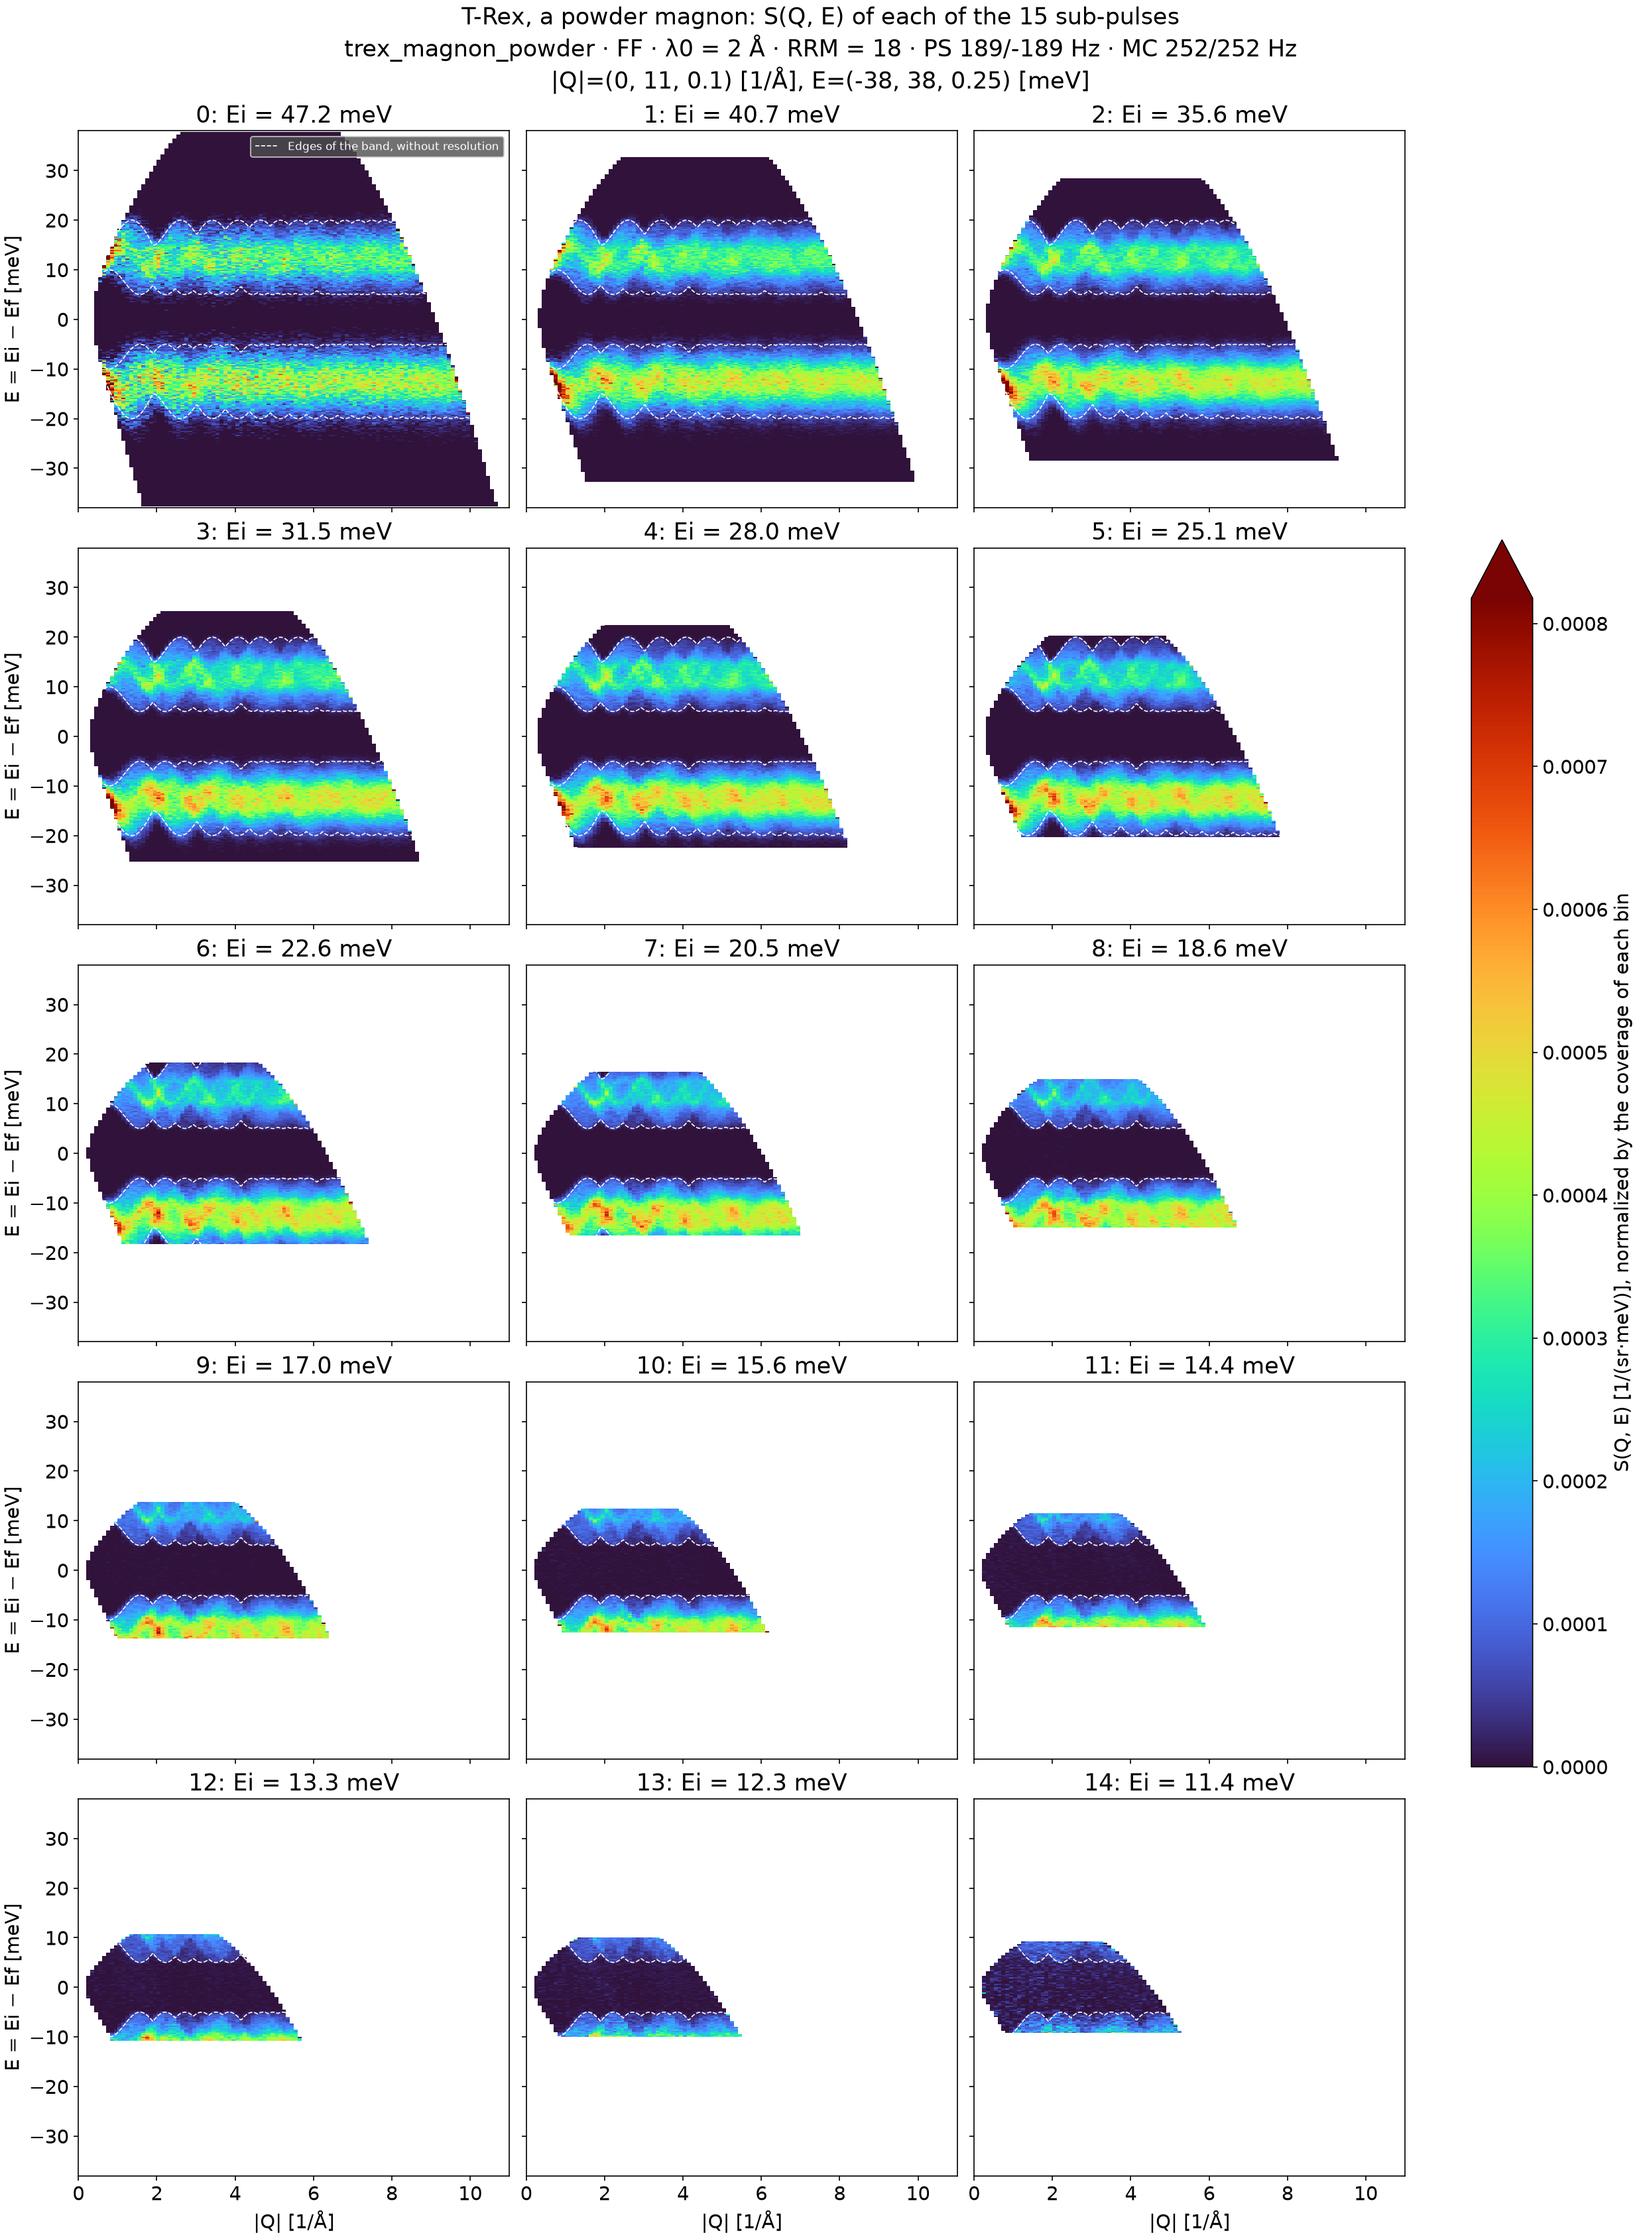
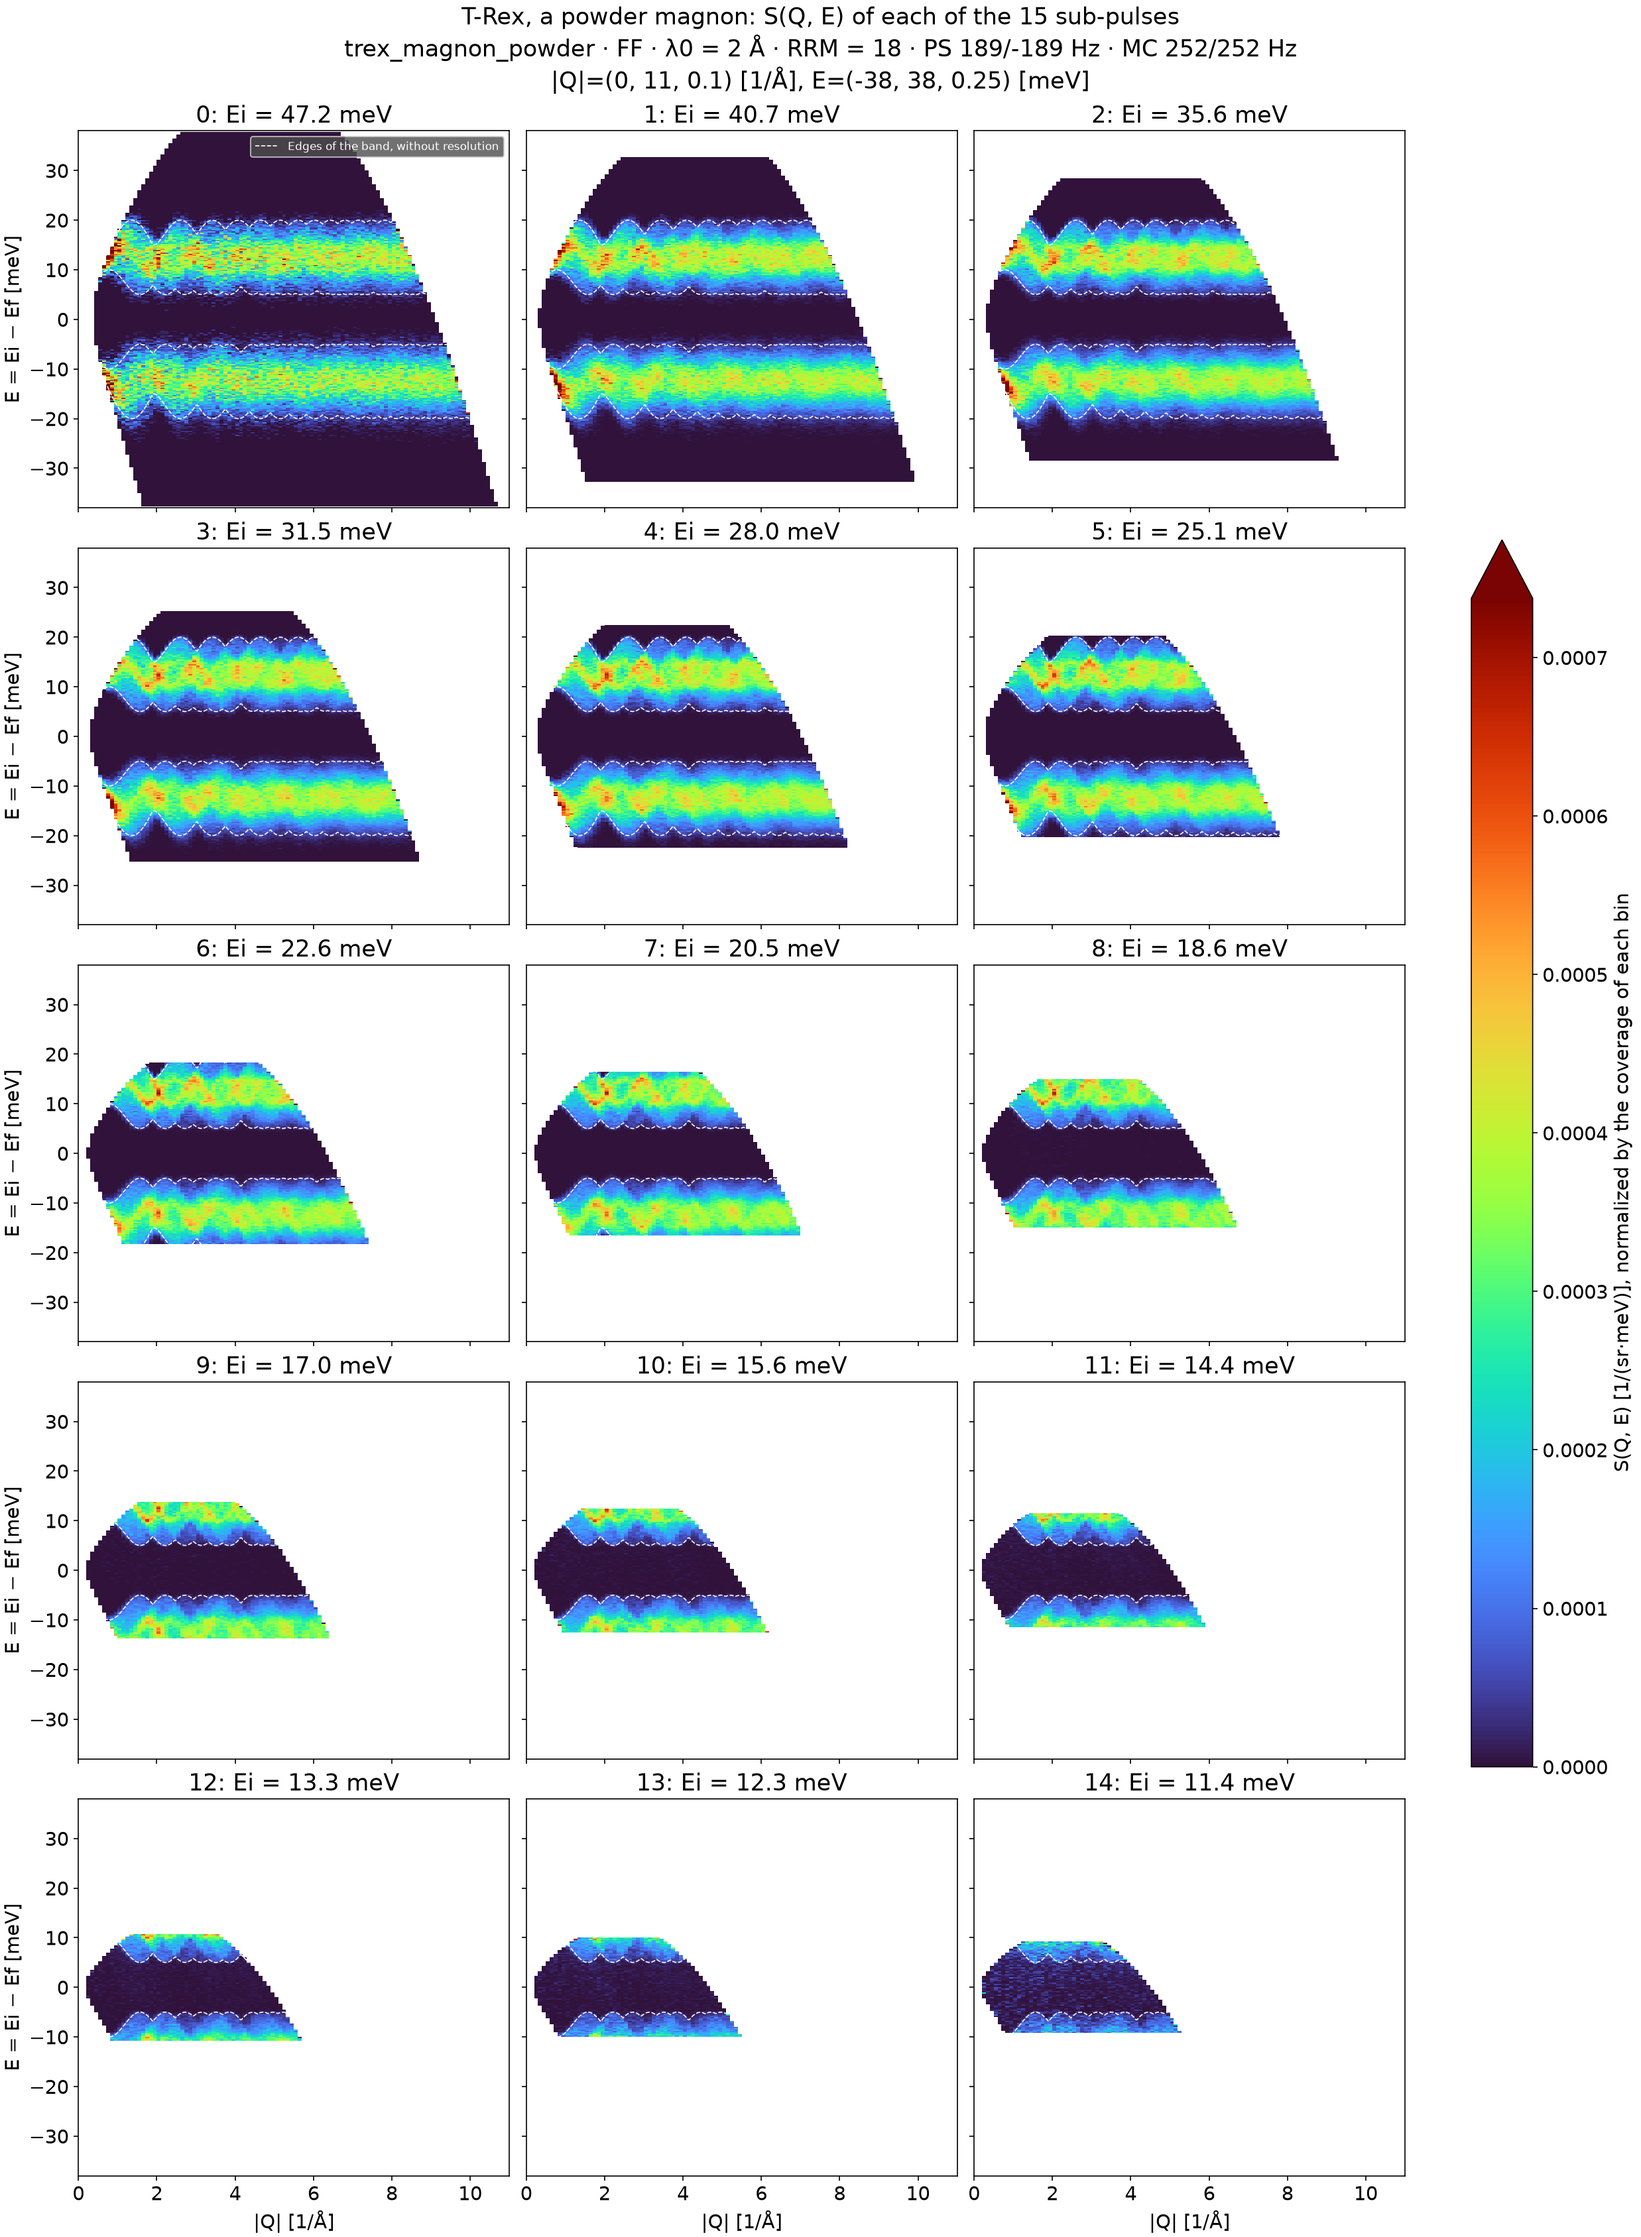
Divide the S(Q, E) maps by kf/ki, and explain it and the Bose factor in the docs
The double-differential cross section holds kf/ki on top of S(Q, E), and Isotropic_Sqw scatters
with it. kf_over_ki in reduction.inelastic gives sqrt(Ef / Ei), and q_e_maps divides each neutron
by it before it histograms them, so the maps are S(Q, E) itself, as their color bar says. For the
powder magnon, whose table is symmetric in E, the gain and the loss sides now agree within 1% to
4% wherever frame overlap leaves them alone, on both instruments; before, the gain side was up to
twice as bright at the lowest Ei. The two figures are redrawn.

The powder-magnon pages of T-Rex and CSPEC explain both: the table on both sides of E with T=-1,
a Bose factor of 1 at every energy transfer, and kf/ki taken off in the reduction.

diff --git a/src/mcdgs/diagnostics/elastic_resolution.py b/src/mcdgs/diagnostics/elastic_resolution.py
@@ -15,8 +15,9 @@ does the rest:
   final energy Ef, and gives its FWHM, ``FWHM_PER_SIGMA`` times its standard deviation σ;
   :func:`lines_table` lists them, and :func:`plot_spectra` draws the spectra with their errors and
   their Gaussians, against E.
-- :func:`q_e_maps` histograms the neutrons of each sub-pulse in |Q| and E as well, and
-  :func:`plot_q_e_maps` draws the maps of all of them in one figure.
+- :func:`q_e_maps` histograms the neutrons of each sub-pulse in |Q| and E as well, divided by
+  their kf/ki, into S(Q, E), and :func:`plot_q_e_maps` draws the maps of all of them in one
+  figure.
 
 The sub-pulses are a data array along ``subpulse``, with their flux and the coordinates
 ``incident_energy``, ``incident_wavelength`` and ``time_at_sample``, as
@@ -31,7 +32,7 @@ from scipy.optimize import curve_fit
 
 from mcdgs.diagnostics import cli
 from mcdgs.reduction.binning import bin_edges, bins_title
-from mcdgs.reduction.inelastic import DEFAULT_ENERGY_TRANSFER_RATIO
+from mcdgs.reduction.inelastic import DEFAULT_ENERGY_TRANSFER_RATIO, kf_over_ki
 from mcdgs.reduction.mdnorm import momentum_transfer, q_e_coverage
 
 # the incident beam in the frame of sample_pos, the frame of a run from the sample: its z axis
@@ -369,9 +370,11 @@ def q_e_maps(
 
     Every sub-pulse has the same bins, so that all the maps span the same range: in E those of
     :func:`energy_spectra`, wide enough for the arrival window of the highest Ei, and in |Q|
-    from 0 to the largest |Q| the detector reaches, at the largest 2θ and the highest Ei. In
-    each bin, the fraction of the incident neutrons of the sub-pulse scattered into it is
-    divided by its coverage from :func:`.q_e_coverage`: the solid angle of every pixel times
+    from 0 to the largest |Q| the detector reaches, at the largest 2θ and the highest Ei. Each
+    neutron is divided by its kf/ki, :func:`.kf_over_ki`, which the cross section holds on top of
+    S(Q, E): it is 1 at E = 0, above 1 where the neutron gains energy and below where it loses
+    it. In each bin, the fraction of the incident neutrons of the sub-pulse scattered into it is
+    then divided by its coverage from :func:`.q_e_coverage`: the solid angle of every pixel times
     the length in E of its trajectory inside the bin. That is S(Q, E) per steradian and per meV,
     whatever the part of the detector that sees the bin: the normalization of MDNorm, in |Q|.
 
@@ -410,6 +413,13 @@ def q_e_maps(
     fractions.data = events.data * events.coords["solid_angle"]  # of the incident neutrons
     fractions.coords["energy_transfer"] = events.coords["energy_transfer"].to(unit="meV")
     fractions.coords["Q"] = events.coords["Q"].to(unit="1/Å")
+    # the incident energy of each neutron, that of its sub-pulse, to take kf/ki off S(Q, E)
+    subpulse = events.coords["subpulse"].values
+    incident = energies.values[subpulse]
+    fractions.data = fractions.data / kf_over_ki(
+        sc.array(dims=events.dims, values=incident, unit="meV"),
+        fractions.coords["energy_transfer"],
+    )
     grouped = fractions.group(sc.arange("subpulse", pulses.sizes["subpulse"]))
     scattered = grouped.hist(energy_transfer=energy, Q=q).transpose(
         ["subpulse", "energy_transfer", "Q"]

diff --git a/src/mcdgs/reduction/inelastic.py b/src/mcdgs/reduction/inelastic.py
@@ -12,6 +12,10 @@ an energy-transfer range reach the detector, and :func:`assign_subpulse` gives e
 sub-pulse of the window it arrives in. :func:`events_to_q_and_energy` does both for neutrons
 binned by pixel, keeps those inside a window and converts them with ``QE_GRAPH``.
 :func:`normalized_events` does the same per incident neutron and per steradian.
+
+A neutron scattered with an energy transfer E counts in the double-differential cross section
+with a factor kf/ki, of the phase space of the scattered neutron, on S(Q, E). :func:`kf_over_ki`
+gives it, so that the neutrons divided by it give S(Q, E).
 """
 
 from typing import cast
@@ -29,6 +33,7 @@ __all__ = [
     "assign_subpulse",
     "events_to_q_and_energy",
     "final_wavelength",
+    "kf_over_ki",
     "normalized_events",
     "time_at_sample",
 ]
@@ -337,6 +342,38 @@ def events_to_q_and_energy(
     return events.transform_coords(
         ["energy_transfer", "Q", "Qx", "Qy", "Qz"], graph=QE_GRAPH, keep_intermediate=False
     )
+
+
+def kf_over_ki(incident_energy: sc.Variable, energy_transfer: sc.Variable) -> sc.Variable:
+    """Return the ratio of the final to the incident wavevector of each neutron.
+
+    The double-differential cross section is (σ / 4π) (kf / ki) S(Q, E): a neutron that gains
+    energy leaves faster, and counts more, than one that loses as much. Dividing the neutrons by
+    kf / ki = √(Ef / Ei), with Ef = Ei − E, leaves S(Q, E).
+
+    Parameters
+    ----------
+    incident_energy:
+        The incident energy of each neutron, that of its sub-pulse.
+    energy_transfer:
+        The energy transfer ``Ei - Ef`` of each neutron, below Ei.
+
+    Returns
+    -------
+    :
+        kf / ki, dimensionless, with the dimensions of the inputs.
+
+    Examples
+    --------
+    A neutron of 10 meV that loses 7.5 meV leaves with a quarter of its energy, half its
+    wavevector; one that gains 30 meV, twice it:
+
+    >>> ei = sc.scalar(10.0, unit="meV")
+    >>> kf_over_ki(ei, sc.array(dims=["event"], values=[7.5, 0.0, -30.0], unit="meV")).values
+    array([0.5, 1. , 2. ])
+    """
+    final_energy = incident_energy - energy_transfer.to(unit=incident_energy.unit)
+    return sc.sqrt(final_energy / incident_energy)
 
 
 def normalized_events(

diff --git a/tests/reduction/test_inelastic.py b/tests/reduction/test_inelastic.py
@@ -8,6 +8,7 @@ from mcdgs.reduction.inelastic import (
     arrival_window,
     assign_subpulse,
     events_to_q_and_energy,
+    kf_over_ki,
     normalized_events,
     time_at_sample,
 )
@@ -205,3 +206,11 @@ def test_each_neutron_is_per_steradian_of_its_pixel_and_per_neutron_of_its_sub_p
     assert events.values == pytest.approx([1.0, 1.0])
     assert events.coords["solid_angle"].values == pytest.approx([0.5, 0.25])
     assert (events.values * events.coords["solid_angle"].values).tolist() == [0.5, 0.25]
+
+
+def test_kf_over_ki_is_one_when_elastic_above_one_on_gain_and_below_on_loss():
+    ei = sc.array(dims=["event"], values=[10.0, 10.0, 10.0, 4.0], unit="meV")
+    e = sc.array(dims=["event"], values=[0.0, 5000.0, -5000.0, 3000.0], unit="μeV")  # any unit
+    ratio = kf_over_ki(ei, e)
+    assert ratio.unit == sc.units.one
+    assert ratio.values == pytest.approx([1.0, np.sqrt(0.5), np.sqrt(1.5), 0.5])

diff --git a/docs/instruments/cspec/magnon-powder.md b/docs/instruments/cspec/magnon-powder.md
@@ -49,6 +49,22 @@ The magnetic form factor and the polarization factor are left out, so the intens
 fall with |Q|. `Isotropic_Sqw` has no horizontal focusing: it scatters over the whole horizontal
 circle, and the panels catch the part of it between −31.5° and 143.8°.
 
+### Both sides of E, with a Bose factor of 1
+
+A magnon is created when the neutron loses energy, at positive E, and annihilated when it gains
+energy, at negative E. In a sample at a temperature $T$, detailed balance ties the two sides by
+the Bose factor:
+
+$$
+S(Q, -E) = e^{-E / k_B T}\, S(Q, E)
+$$
+
+Here the two sides are equal at every energy transfer, a Bose factor of 1, the limit
+$k_B T \gg E$. `write_magnon_sqw` writes the table on both sides itself, $S(Q, -E) = S(Q, E)$,
+and `T=-1` makes `Isotropic_Sqw` take it as it is, with no detailed balance. The figure then shows
+the band on both sides of E, as strong on each: any difference between them comes from the
+instrument or the reduction, not from the sample.
+
 `simulate` writes the table into the builds folder of the workspace, `sqw_path`, as
 `cspec_magnon_powder.sqw`, apart from the table of T-Rex, before it runs McStas. McStas reads it
 when the instrument starts, in both parts of the run, so the path is absolute.
@@ -73,6 +89,21 @@ masked source, in the two parts of
 `mc_monitor`, every pixel of the panels, the neutrons of each sub-pulse divided by the solid
 angle of their pixel and by its flux, and `q_e_maps`, S(Q, E) normalized by the coverage of each
 bin, in bins of 0.1 meV and 0.05 Å⁻¹.
+
+The intensity a detector measures is the double-differential cross section, which holds a factor
+$k_f/k_i$ on top of S(Q, E):
+
+$$
+\frac{d^2\sigma}{d\Omega\, dE_f} = \frac{\sigma}{4\pi}\, \frac{k_f}{k_i}\, S(Q, E),
+\qquad \frac{k_f}{k_i} = \sqrt{\frac{E_f}{E_i}} = \sqrt{1 - \frac{E}{E_i}}
+$$
+
+`Isotropic_Sqw` scatters with it, so a neutron that gains energy, and leaves faster, counts more
+than one that loses as much. `q_e_maps` removes it: it divides each neutron by its $k_f/k_i$,
+from `kf_over_ki`, before it histograms them, so the maps are S(Q, E) itself. Without that, the
+gain side of a sub-pulse would be brighter than its loss side, though the sample scatters the same
+on both: by about 2 across the band at the lowest Ei, and by up to 3 at the edges of an arrival
+window, $\sqrt{1.8 / 0.2}$ at $E = \mp 0.8\, E_i$.
 
 ## S(Q, E)
 

diff --git a/docs/instruments/trex/magnon-powder.md b/docs/instruments/trex/magnon-powder.md
@@ -39,6 +39,22 @@ The magnetic form factor and the polarization factor are left out, so the intens
 fall with |Q|. `Isotropic_Sqw` has no horizontal focusing: it scatters over the whole horizontal
 circle, and the banana detector catches the half of it between −36° and 144°.
 
+### Both sides of E, with a Bose factor of 1
+
+A magnon is created when the neutron loses energy, at positive E, and annihilated when it gains
+energy, at negative E. In a sample at a temperature $T$, detailed balance ties the two sides by
+the Bose factor:
+
+$$
+S(Q, -E) = e^{-E / k_B T}\, S(Q, E)
+$$
+
+Here the two sides are equal at every energy transfer, a Bose factor of 1, the limit
+$k_B T \gg E$. `write_magnon_sqw` writes the table on both sides itself, $S(Q, -E) = S(Q, E)$,
+and `T=-1` makes `Isotropic_Sqw` take it as it is, with no detailed balance. The figure then shows
+the band on both sides of E, as strong on each: any difference between them comes from the
+instrument or the reduction, not from the sample.
+
 `simulate` writes the table into the builds folder of the workspace, `sqw_path`, before it runs
 McStas. McStas reads it when the instrument starts, in both parts of the run, so the path is
 absolute.
@@ -60,6 +76,21 @@ the beam goes through the powder 4 times, which gives 67 million detector events
 past 5° from the beam, the neutrons of each sub-pulse divided by the solid angle of their pixel
 and by its flux, and `q_e_maps`, S(Q, E) normalized by the coverage of each bin, in bins of
 0.25 meV and 0.1 Å⁻¹.
+
+The intensity a detector measures is the double-differential cross section, which holds a factor
+$k_f/k_i$ on top of S(Q, E):
+
+$$
+\frac{d^2\sigma}{d\Omega\, dE_f} = \frac{\sigma}{4\pi}\, \frac{k_f}{k_i}\, S(Q, E),
+\qquad \frac{k_f}{k_i} = \sqrt{\frac{E_f}{E_i}} = \sqrt{1 - \frac{E}{E_i}}
+$$
+
+`Isotropic_Sqw` scatters with it, so a neutron that gains energy, and leaves faster, counts more
+than one that loses as much. `q_e_maps` removes it: it divides each neutron by its $k_f/k_i$,
+from `kf_over_ki`, before it histograms them, so the maps are S(Q, E) itself. Without that, the
+gain side of a sub-pulse would be brighter than its loss side, though the sample scatters the same
+on both: by about 2 across the band at the lowest Ei, and by up to 3 at the edges of an arrival
+window, $\sqrt{1.8 / 0.2}$ at $E = \mp 0.8\, E_i$.
 
 ## S(Q, E)
 
